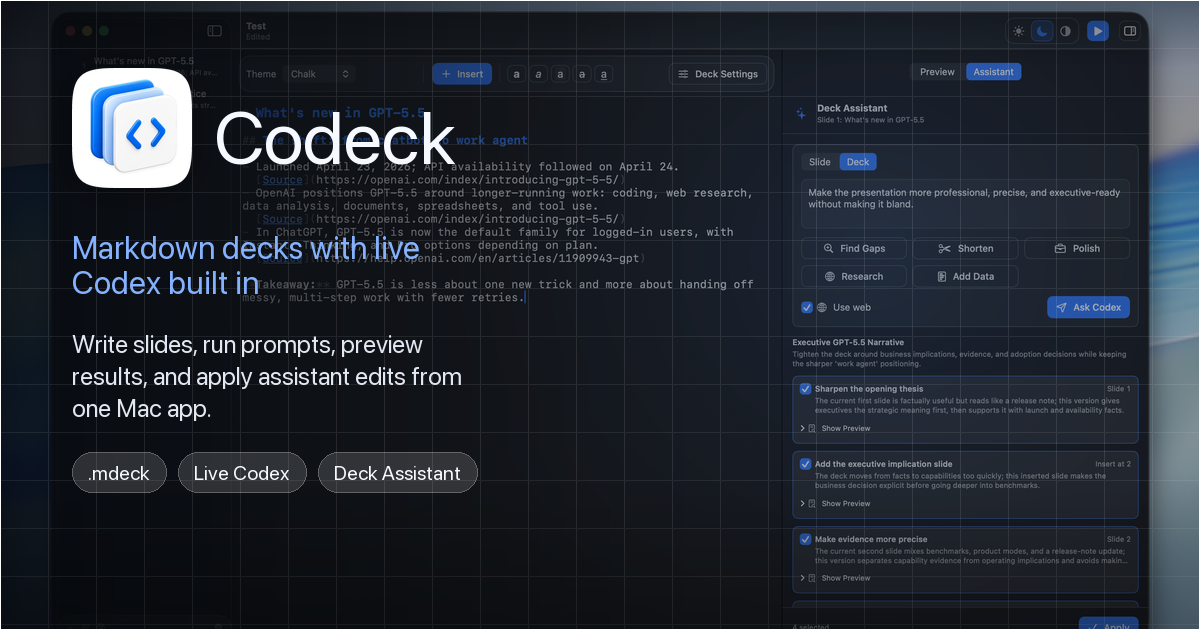
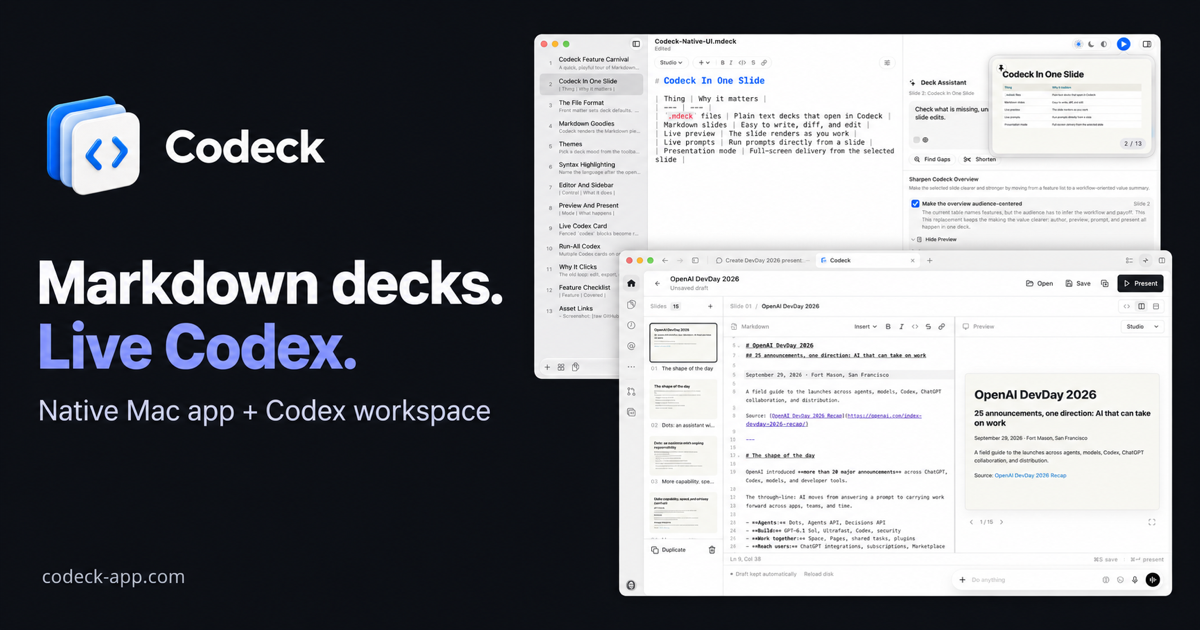
Refresh social card and remove obsolete website assets

diff --git a/docs/index.html b/docs/index.html
@@ -12,15 +12,15 @@
     <meta property="og:url" content="https://codeck-app.com/" />
     <meta property="og:title" content="Codeck — Markdown presentations for Mac and Codex" />
     <meta property="og:description" content="A native Mac app and a Codex workspace for Markdown decks, live AI prompts, and fullscreen presentations." />
-    <meta property="og:image" content="https://codeck-app.com/assets/codeck-social-card.png" />
+    <meta property="og:image" content="https://codeck-app.com/assets/codeck-social-card.png?v=20261005" />
     <meta property="og:image:width" content="1200" />
     <meta property="og:image:height" content="630" />
-    <meta property="og:image:alt" content="Codeck branding beside the Markdown deck editor and Deck Assistant." />
+    <meta property="og:image:alt" content="Codeck — Markdown decks. Live Codex. The native Mac app and Codex workspace." />
     <meta name="twitter:card" content="summary_large_image" />
     <meta name="twitter:title" content="Codeck — Markdown presentations for Mac and Codex" />
     <meta name="twitter:description" content="Write, preview, and present Markdown decks in the native Mac app or the Codeck workspace inside Codex." />
-    <meta name="twitter:image" content="https://codeck-app.com/assets/codeck-social-card.png" />
-    <meta name="twitter:image:alt" content="Codeck branding beside the Markdown deck editor and Deck Assistant." />
+    <meta name="twitter:image" content="https://codeck-app.com/assets/codeck-social-card.png?v=20261005" />
+    <meta name="twitter:image:alt" content="Codeck — Markdown decks. Live Codex. The native Mac app and Codex workspace." />
     <link rel="icon" href="assets/codeck-icon.png" type="image/png" />
     <link rel="apple-touch-icon" href="assets/codeck-icon.png" />
     <script>
